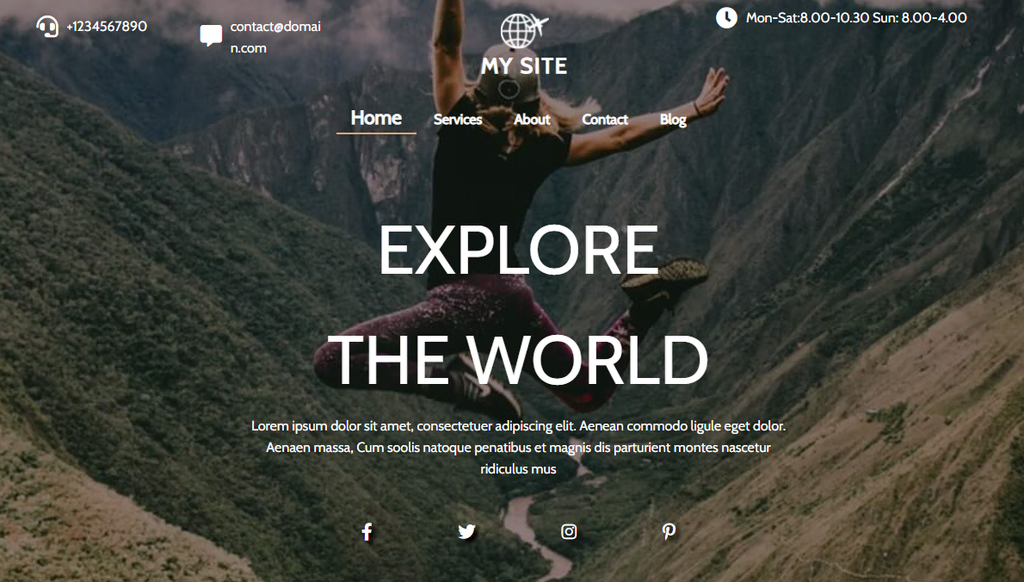
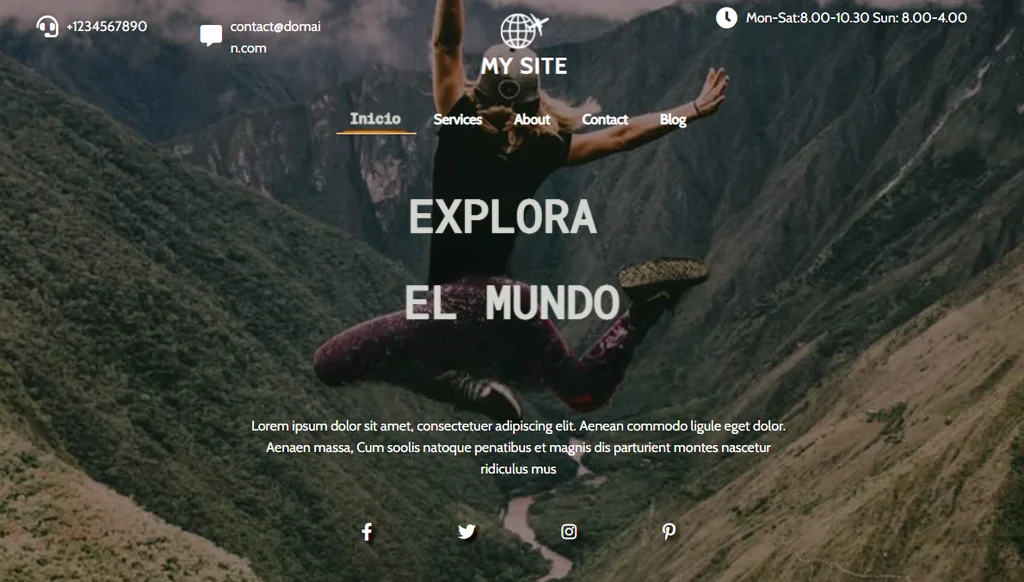
feat modify hero and features

diff --git a/src/components/Hero.jsx b/src/components/Hero.jsx
@@ -2,83 +2,101 @@ import { useState } from "react";
 import { motion } from "framer-motion";
 
 import { InvitationModal } from "./InvitationModal";
-import dashboard from "../assets/images/dashboard.jpg";
 
 export const Hero = () => {
   const [isModalOpen, setIsModalOpen] = useState(false);
 
   return (
     <section
-      className="w-screen  flex justify-center items-center bg-customDarkBg1 mb-[28vw] md:mb-[18vw] lg:mb-[10vw] xl:mb-[13vw] 2xl:mb-60 hero-bg-gradient pb-24 sm:pb-32 md:pb-44 lg:pb-0"
+      className="w-screen flex justify-center items-center bg-customDarkBg1 mb-[28vw] md:mb-[18vw] lg:mb-[10vw] xl:mb-[13vw] 2xl:mb-60 hero-bg-gradient pb-24 sm:pb-32 md:pb-44 lg:pb-0"
       id="home"
     >
-      <div className="w-full md:w-[800px] xl:w-[900px] flex flex-col justify-center items-center pt-16 md:pt-16 lg:pt-20 text-center">
+      <div className="grid grid-cols-1 lg:grid-cols-2 lg:gap-2 place-items-center lg:place-items-stretch">
+        <div className="md:w-[800px] flex flex-col justify-center items-center pt-16 md:pt-16 lg:pt-20 text-center">
+          <motion.div
+            initial={{ opacity: 0, y: 10 }}
+            animate={{ opacity: 1, y: 0 }}
+            transition={{ duration: 0.5 }}
+          >
+            <div className="text-customGrayText text-sm sm:text-base  mb-6 sm:mt-32 mt-16">
+              Código hecho a medida para tu éxito en la Web
+            </div>
+          </motion.div>
+          <motion.div
+            initial={{ opacity: 0, y: 10 }}
+            animate={{ opacity: 1, y: 0 }}
+            transition={{ duration: 0.5, delay: 0.05 }}
+          >
+            <div className="text-5xl sm:text-6xl lg:text-7xl xl:text-7xl font-bold tracking-wide  text-white  px-8 sm:px-8 md:px-20 lg:px-4">
+              <span className="inline md:hidden">
+                PROGRA<span className="text-customSecondary">WEBS</span>
+              </span>
+              <span className="hidden md:inline">
+                PROGRA<span className="text-customSecondary">WEBS</span>
+              </span>
+            </div>
+            <div className="mt-2 sm:mt-2 text-4xl sm:text-6xl lg:text-7xl xl:text-7xl font-bold tracking-wide  text-white  px-8 sm:px-20 md:px-24 lg:px-24"></div>
+          </motion.div>
+          <motion.div
+            initial={{ opacity: 0, y: 10 }}
+            animate={{ opacity: 1, y: 0 }}
+            transition={{ duration: 0.5, delay: 0.1 }}
+          >
+            <div className="text-customGrayText text-sm lg:text-base xl:text-lg sm:text-base mt-2 px-12 sm:px-48 ">
+              Impulsamos el éxito en línea de nuestros clientes. Únete a
+              nosotros para crear el futuro en cada clic
+            </div>
+            <br />
+            <br />
+          </motion.div>
+          <motion.div
+            initial={{ opacity: 0, y: 10 }}
+            animate={{ opacity: 1, y: 0 }}
+            transition={{ duration: 0.5, delay: 0.15 }}
+          >
+            <div className="flex flex-col gap-2 sm:flex-row mt-14 mb-24 sm:mb-40 justify-center">
+              <div
+                className="custom-button-colored w-64 sm:w-52 h-12 mr-0 sm:mr-4 lg:mr-6 mb-2 sm:mb-0"
+                onClick={() => setIsModalOpen(true)}
+              >
+                Comprar
+              </div>
+              <div
+                className="w-64 sm:w-52 h-12 rounded-xl font-bold text-white border border-solid  flex justify-center items-center cursor-pointer bg-customDarkBg2 hover:bg-customDarkBg3 border-customPrimary transition"
+                onClick={() => setIsModalOpen(true)}
+              >
+                Ver Demo
+              </div>
+            </div>
+          </motion.div>
+        </div>
         <motion.div
           initial={{ opacity: 0, y: 10 }}
           animate={{ opacity: 1, y: 0 }}
           transition={{ duration: 0.5 }}
+          className="hidden lg:flex justify-center items-center "
         >
-          <div className="text-customSecondary text-sm sm:text-base  mb-6 sm:mt-32 mt-16  font-bold">
-            BIENVENIDOS/AS
-          </div>
-        </motion.div>
-        <motion.div
-          initial={{ opacity: 0, y: 10 }}
-          animate={{ opacity: 1, y: 0 }}
-          transition={{ duration: 0.5, delay: 0.05 }}
-        >
-          <div className="text-5xl sm:text-6xl lg:text-7xl xl:text-7xl font-bold tracking-wide  text-white  px-8 sm:px-8 md:px-20 lg:px-4">
-            <span className="inline md:hidden">PROGRAWEBS</span>
-            <span className="hidden md:inline"> PROGRAWEBS </span>
-          </div>
-          <div className="mt-2 sm:mt-2 text-4xl sm:text-6xl lg:text-7xl xl:text-7xl font-bold tracking-wide  text-white  px-8 sm:px-20 md:px-24 lg:px-24"></div>
-        </motion.div>
-        <motion.div
-          initial={{ opacity: 0, y: 10 }}
-          animate={{ opacity: 1, y: 0 }}
-          transition={{ duration: 0.5, delay: 0.1 }}
-        >
-          <div className="text-customGrayText text-sm lg:text-base xl:text-lg sm:text-base mt-10 px-12 sm:px-48 ">
-            Código Hecho a Medida para Tu Éxito en la Web
-          </div>
-          <br />
-          <br />
-        </motion.div>
-        <motion.div
-          initial={{ opacity: 0, y: 10 }}
-          animate={{ opacity: 1, y: 0 }}
-          transition={{ duration: 0.5, delay: 0.15 }}
-        >
-          <div className="flex flex-col gap-2 sm:flex-row mt-14 mb-24 sm:mb-40 justify-center">
-            <div
-              className="custom-button-colored w-64 sm:w-52 h-12 mr-0 sm:mr-4 lg:mr-6 mb-2 sm:mb-0"
-              onClick={() => setIsModalOpen(true)}
-            >
-              Comprar
-            </div>
-            <div
-              className="w-64 sm:w-52 h-12 rounded-xl font-bold text-white border border-solid  flex justify-center items-center cursor-pointer bg-customDarkBg2 hover:bg-customDarkBg3 border-customPrimary transition"
-              onClick={() => setIsModalOpen(true)}
-            >
-              Ver Demo
-            </div>
-          </div>
+          <img
+            src="src/assets/images/fondo.webp"
+            alt="Fondo"
+            className="w-8/12 fondo_prograwebs"
+          />
         </motion.div>
         <motion.div
           initial={{ opacity: 0, y: 10, zIndex: 20 }}
           animate={{ opacity: 1, y: 0, zIndex: 20 }}
           transition={{ duration: 0.5, delay: 0.15 }}
         >
-          <div className="relative w-screen flex justify-center ">
+          <div className="hidden absolute w-screen lg:flex justify-center">
             <img
               src="src/assets/images/image-18.webp"
               alt="123"
               style={{ height: "560px" }}
-              className="w-4/5 2xl:w-[1200px] mx-auto absolute z-10 rounded-xl custom-border-gray hero-dashboard-border-gradient lg:top-6 xl:top-0 opacity-50"
+              className="w-4/5 2xl:w-[1200px] mx-auto absolute rounded-xl custom-border-gray hero-dashboard-border-gradient opacity-50 scale-95 hover:opacity-100 hover:scale-100 hover:transition-all"
             />
           </div>
         </motion.div>
-        <div className="relative w-screen flex justify-center ">
+        <div className="relative w-screen flex justify-center col-span-2">
           <div className="custom-shape-divider-bottom-1665343298 mt-4 sm:mt-16 md:mt-52 hidden lg:block">
             <svg
               data-name="Layer 1"
@@ -95,6 +113,7 @@ export const Hero = () => {
           </div>
         </div>
       </div>
+
       {isModalOpen && (
         <InvitationModal isOpen={isModalOpen} setIsOpen={setIsModalOpen} />
       )}

diff --git a/src/components/Features1.jsx b/src/components/Features1.jsx
@@ -55,14 +55,14 @@ export const Features1 = () => {
             <div className="mb-8 lg:mb-0 w-full sm:w-1/2 px-2 lg:px-0">
               <div className="mb-4 py-3 pl-3 pr-2 rounded">
                 <img
-                  src="src/assets/images/astra.png"
+                  src="src/assets/images/astra.webp"
                   alt="f1"
                   className="rounded-xl  custom-border-gray mx-auto sm:mx-unset"
                 />
               </div>
-              <div className="py-3 pl-3 pr-2 rounded ">
+              <div className="py-3 pl-3 pr-2 rounded">
                 <img
-                  src="src/assets/images/hestia.png"
+                  src="src/assets/images/hestia.webp"
                   alt="f2"
                   className="rounded-xl  custom-border-gray mx-auto sm:mx-unset"
                 />
